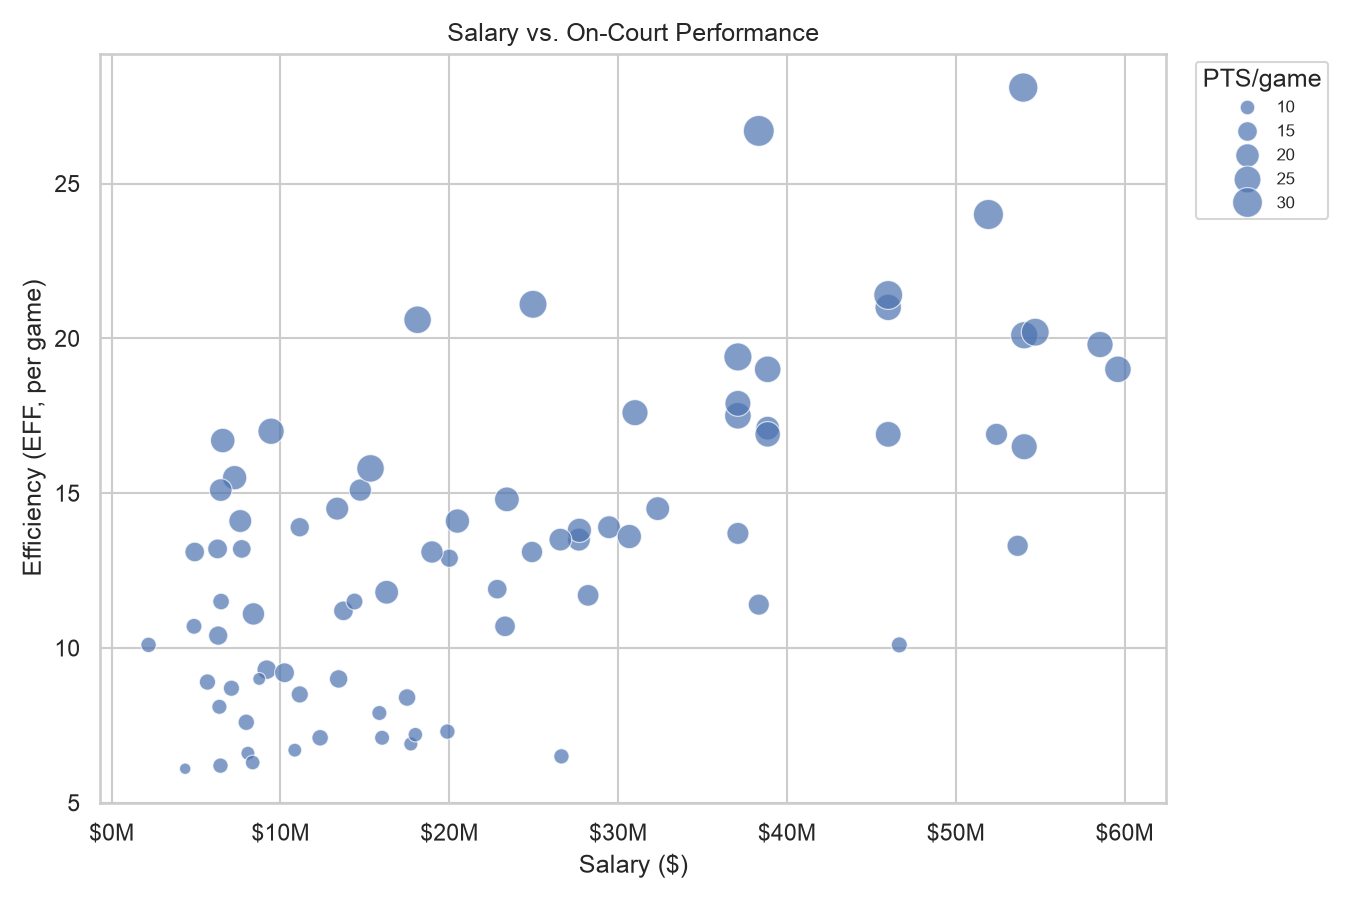
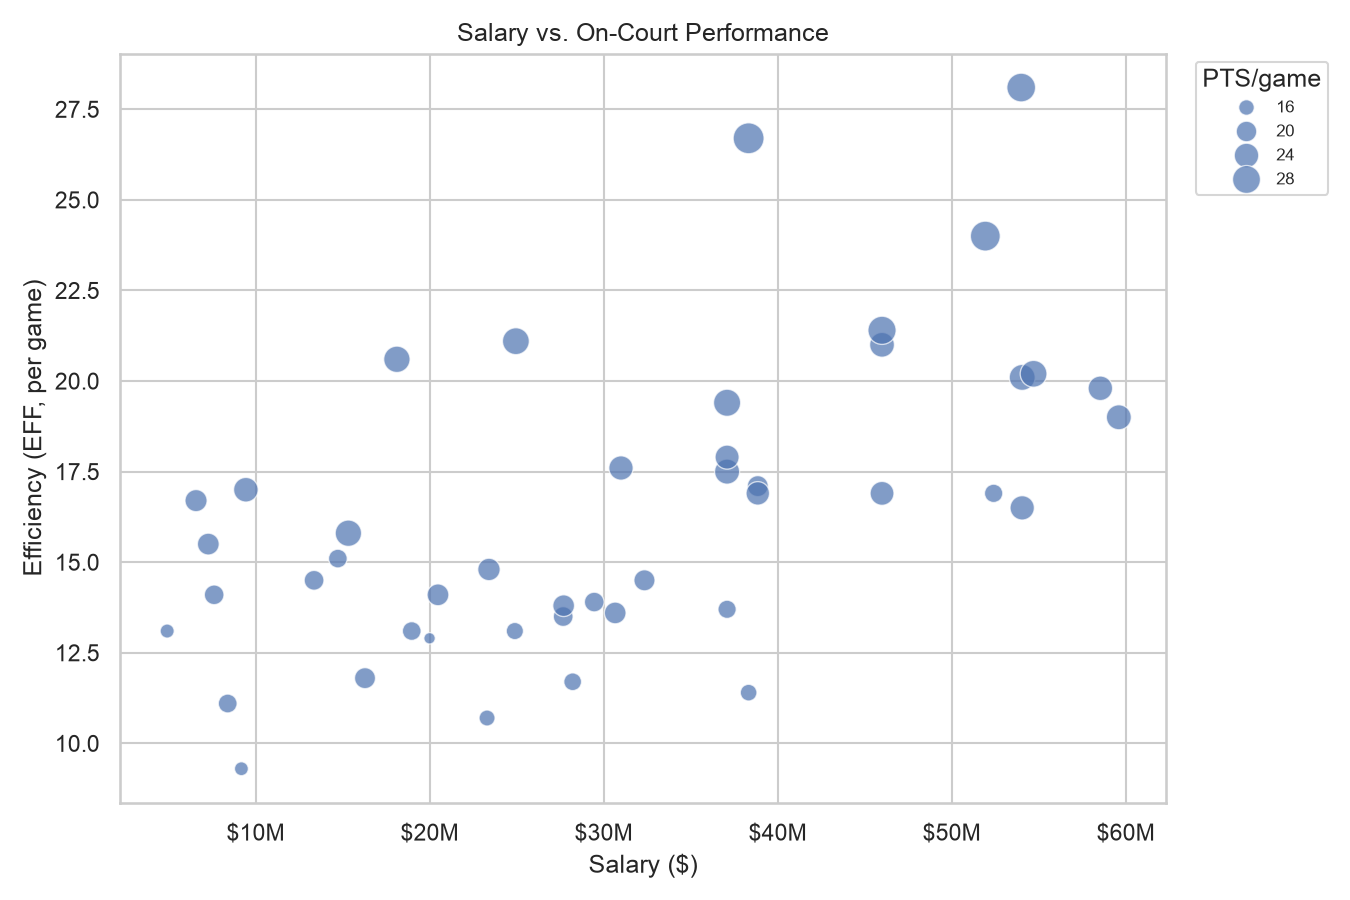
Default to top 80 players instead of top 200

diff --git a/main.py b/main.py
@@ -4,7 +4,7 @@
 Usage:
     python main.py                    # bundled real 2024-25 season data (offline)
     python main.py --live-data        # fetch current stats from the NBA Stats API instead
-    python main.py --top-n 100        # narrow to the top 100 scorers instead of 200
+    python main.py --top-n 200        # widen to the top 200 scorers instead of 80
 """
 
 import argparse
@@ -26,8 +26,8 @@ def parse_args():
         help="Season to fetch in live mode, e.g. 2024-25 (default: 2024-25).",
     )
     parser.add_argument(
-        "--top-n", type=int, default=200,
-        help="Keep only the top N players by total season points (default: 200).",
+        "--top-n", type=int, default=80,
+        help="Keep only the top N players by total season points (default: 80).",
     )
     parser.add_argument(
         "--skip-viz", action="store_true",

diff --git a/README.md b/README.md
@@ -12,7 +12,7 @@ correlation analysis, and produces four charts.
 ```bash
 pip install -r requirements.txt
 
-# Bundled real 2024-25 season data, offline, top 200 scorers
+# Bundled real 2024-25 season data, offline, top 80 scorers
 python main.py --skip-viz
 
 # Full run with charts
@@ -25,7 +25,7 @@ python main.py --live-data
 Other options:
 
 ```bash
-python main.py --top-n 100          # narrow to the top 100 scorers instead of 200
+python main.py --top-n 200          # widen to the top 200 scorers instead of 80
 python main.py --live-data --season 2023-24
 ```
 
@@ -47,7 +47,7 @@ Output lands in `output/`: `processed_player_data.csv` plus four PNG charts.
 
 1. **Aggregate** — box-score rows are grouped by player: games played, season-total
    points (used for ranking), and per-game averages for every stat.
-2. **Select top N** — `analysis.select_top_players()` keeps the top 200 players (`--top-n`
+2. **Select top N** — `analysis.select_top_players()` keeps the top 80 players (`--top-n`
    to change it) ranked by total season points, before the salary join.
 3. **Merge salary** — joined by player name, normalized to survive accents, periods, and
    suffixes (e.g. `Nikola Jokić` / `Alperen Şengün`, `A.J. Green` vs `AJ Green`, trailing
@@ -88,7 +88,7 @@ examples/            committed example charts from the bundled dataset
 
 ## Caveats
 
-- Only ~40% of the top 200 scorers have usable salary data (many well-known players show
+- Only ~56% of the top 80 scorers have usable salary data (many well-known players show
   `$0` in the source salary file and are dropped rather than guessed at) — the
   salary-linked analysis runs on that smaller, real subset.
 - Season averages blend regular-season and playoff games (some players show more than 82
